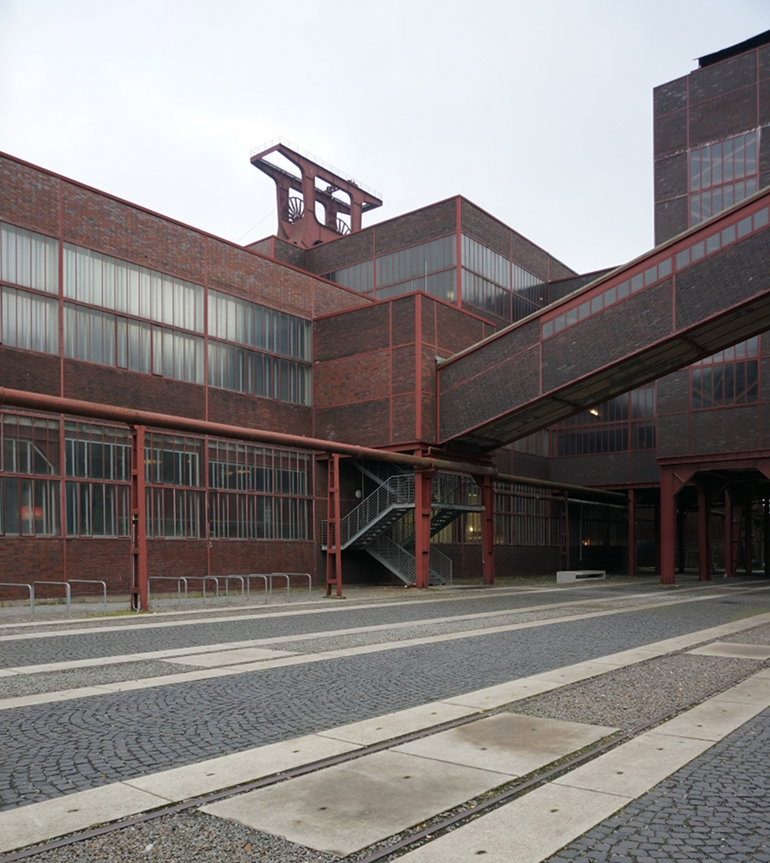
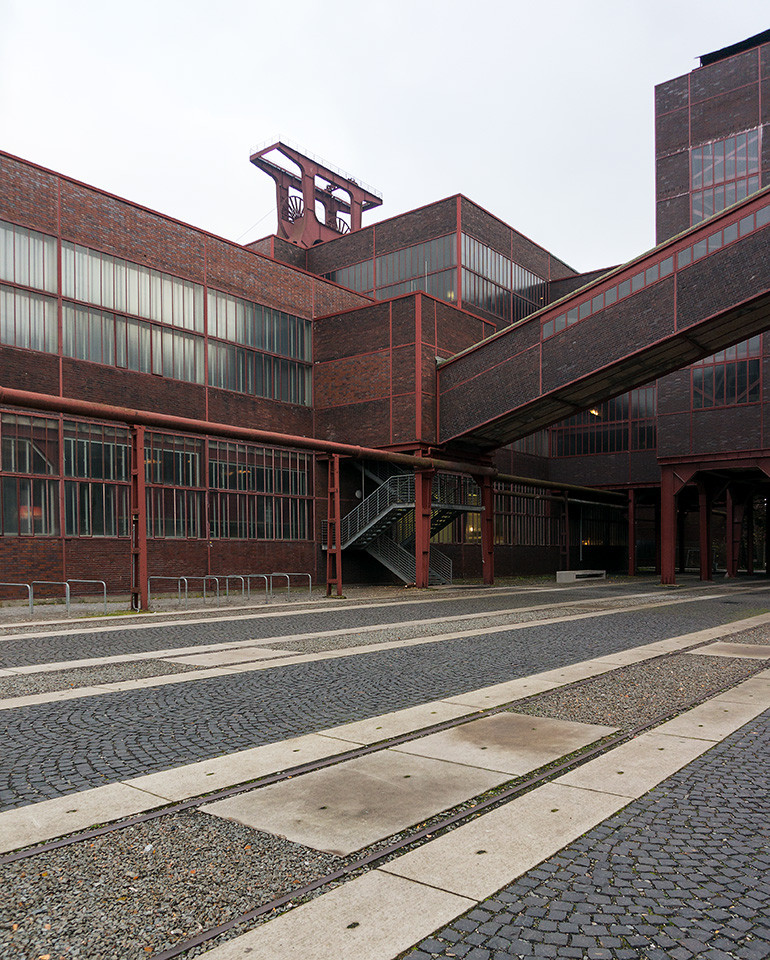
Minor formating changes and img post-processing.

diff --git a/_layouts/default.html b/_layouts/default.html
@@ -1,43 +1,39 @@
 <!DOCTYPE html>
 <html>
-  <head>
-    <title>POTTRAITIERT</title>
-    <!-- Bootstrap -->
-    <link href="/css/bootstrap.css" rel="stylesheet" media="screen">
-	<!-- Pottraitiert -->
-	<link href="/css/pottraitiert.css" rel="stylesheet" media="screen">
-	<link rel="shortcut icon" href="/img/fav_icon.png">
-  </head>
-  <body>
-	<div class="wrap">
-	<div class="container">
-	<div class="row">
-			<div class="span10">
-    			<h1><a href="/index.html" name="top">pottraitiert</a></h1>
+	<head>
+		<title>POTTRAITIERT</title>
+		<!-- Bootstrap -->
+		<link href="/css/bootstrap.css" rel="stylesheet" media="screen">
+		<!-- Pottraitiert -->
+		<link href="/css/pottraitiert.css" rel="stylesheet" media="screen">
+		<link rel="shortcut icon" href="/img/fav_icon.png">
+	</head>
+	<body>
+		<div class="container">
+			<div class="row">
+				<div class="span10">
+					<h1><a href="/index.html" name="top">pottraitiert</a></h1>
+				</div>
 			</div>
-	</div>
-	<div class="row margin-top margin-bottom">
-		{{ content }}
-    </div>
-	</div>
-  </body>
-  	<script src="http://code.jquery.com/jquery-1.8.3.min.js"></script>
+			<div class="row margin-top margin-bottom">
+				{{ content }}
+			</div>
+		</div><!-- container -->
+	</body>
+	<script src="http://code.jquery.com/jquery-1.8.3.min.js"></script>
 	<script>
-	$(document).ready(function () {
-	        $('a[href="' + this.location.pathname + '"]').parent().addClass('active');
-	    });
+		$(document).ready(function () {
+			$('a[href="' + this.location.pathname + '"]').parent().addClass('active');
+		});
 	</script>
 	<script type="text/javascript">
-
-	  var _gaq = _gaq || [];
-	  _gaq.push(['_setAccount', 'UA-38075806-1']);
-	  _gaq.push(['_trackPageview']);
-
-	  (function() {
-	    var ga = document.createElement('script'); ga.type = 'text/javascript'; ga.async = true;
-	    ga.src = ('https:' == document.location.protocol ? 'https://ssl' : 'http://www') + '.google-analytics.com/ga.js';
-	    var s = document.getElementsByTagName('script')[0]; s.parentNode.insertBefore(ga, s);
-	  })();
-
+		var _gaq = _gaq || [];
+		_gaq.push(['_setAccount', 'UA-38075806-1']);
+		_gaq.push(['_trackPageview']);
+		(function() {
+			var ga = document.createElement('script'); ga.type = 'text/javascript'; ga.async = true;
+			ga.src = ('https:' == document.location.protocol ? 'https://ssl' : 'http://www') + '.google-analytics.com/ga.js';
+			var s = document.getElementsByTagName('script')[0]; s.parentNode.insertBefore(ga, s);
+		})();
 	</script>
 </html>

diff --git a/css/pottraitiert.css b/css/pottraitiert.css
@@ -35,10 +35,6 @@ li.active a {
 	background-color:#000;
 }
 
-.with-border { 
-	background: transparent url(../img/background_border.jpg) repeat-y 815px 0px;
-}
-
 .margin-bottom {
 	margin-bottom: 40px;
 }
@@ -49,19 +45,19 @@ textarea, input {
 
 textarea, input[type="text"] {
 	background-position: 0 0;
-	    background-repeat: no-repeat;
-	    border: 1px solid #333333;
-	    font-size: 12px;
-	    line-height: 20px;
-	    padding: 1px;
-	    width: 50%;
+	background-repeat: no-repeat;
+	border: 1px solid #333333;
+	font-size: 12px;
+	line-height: 20px;
+	padding: 1px;
+	width: 50%;
 }
 
 label {
-  display: inline-block;
-  line-height: 1.8;
-  vertical-align: top;
-  width: 250px;
+	display: inline-block;
+	line-height: 1.8;
+	vertical-align: top;
+	width: 250px;
 }
 
 h1 a:hover {
@@ -108,43 +104,4 @@ h2.zero_line_height {
 	
 h2 small {
 	color: #777;
-}
-/* Wrapper for page content to push down footer */
- .wrap {
-	min-height: 100%;
-	height: auto !important;
-	height: 100%;
-	/* Negative indent footer by it's height */
-	margin: 0 auto -60px;
- }
-
-/* Set the fixed height of the footer here */
-.push {
-	height: 40px;
-}
-.footer {
-	height: 60px;
-}
-
-.footer {
-	background-color: #333333;
-}
-
-.footer a {
-  color: #FFF;
-  text-decoration: none;
-}
-.footer a:hover {
-  color: #FFF;
-  text-decoration: underline;
-}
-
-/* Lastly, apply responsive CSS fixes as necessary */
-@media (max-width: 767px) {
-	.footer {
-	margin-left: -20px;
-	margin-right: -20px;
-	padding-left: 20px;
-	padding-right: 20px;
-	}
 }

diff --git a/index.html b/index.html
@@ -2,13 +2,14 @@
 layout: default
 ---
 {% assign first_post = {{site.posts | first}} %}
-	{% if first_post.top_image %}
-		<img src="{{page.top_image}}">
-	{% endif %}
-	<div class="span8">
-		{{ first_post.content }}
-	</div>
-	<div class="span2">
+{% if first_post.top_image %}
+	<img src="{{page.top_image}}">
+{% endif %}
+<div class="span8">
+	{{ first_post.content }}
+</div>
+
+<div class="span2">
 	<div class="left-column-headers" class="zero-margin-top">Artikel</div>
 	<ul>
 	{% for post in site.posts %}
@@ -17,8 +18,8 @@ layout: default
 		{% else %}
 			<li>	
 		{% endif %}
-		<a href="{{ post.url }}">{{ post.title }}</a></li>
+	<a href="{{ post.url }}">{{ post.title }}</a></li>
 	{% endfor %}
 	</ul>
 	{% include informationen.html %}
-	</div>
+</div>

diff --git a/_includes/informationen.html b/_includes/informationen.html
@@ -1,7 +1,7 @@
 <div class="margin-top left-column-headers">Informationen</div>
 <ul>
-<li><a href="/rss.xml">RSS</a></li>
-<li><a href="/kontakt.html#kontakt">Kontakt</a></li>
-<li><a href="/kontakt.html#impressum">Impressum</a></li>
+	<li><a href="/rss.xml">RSS</a></li>
+	<li><a href="/kontakt.html#kontakt">Kontakt</a></li>
+	<li><a href="/kontakt.html#impressum">Impressum</a></li>
+	<li><a href="https://twitter.com/pottraitiert">&#64;pottraitiert</a></li>
 </ul>
-</div>

diff --git a/_layouts/post.html b/_layouts/post.html
@@ -4,10 +4,12 @@ layout: default
 {% if page.top_image %}
 	<img src="{{page.top_image}}">
 {% endif %}
-	<div class="span8">
-		{{ content }}
-	</div>
-	<div class="span2">
+
+<div class="span8">
+	{{ content }}
+</div>
+
+<div class="span2">
 	<div class="left-column-headers" class="zero-margin-top">Artikel</div>
 	<ul>
 	{% for post in site.posts %}
@@ -15,4 +17,4 @@ layout: default
 	{% endfor %}
 	</ul>
 	{% include informationen.html %}
-	</div>
+</div>

diff --git a/pottraitiert.rb b/pottraitiert.rb
@@ -10,11 +10,11 @@ configure do
 end
 
 get '/' do
-    redirect '/index.html'
+  redirect '/index.html'
 end
 
 get '/kontakt.html' do
-    erb :kontakt
+  erb :kontakt
 end
 
 post '/nachricht'do
@@ -27,18 +27,18 @@ post '/nachricht'do
 
  if @errors.empty?
    Pony.mail({:from => params[:nachricht][:email],
-   	:to => 'tkeller.online@googlemail.com',
-   	:subject => "Nachricht von pottraitiert.de",
-   	:body => params[:nachricht][:text],
-   	:port => '587',
-   	:via => :smtp,
-   	:via_options => {
-   	  :address              => 'smtp.sendgrid.net',
-   	  :port                 =>  587,
-   	  :user_name            => ENV['SENDGRID_USERNAME'],
-   	  :password             => ENV['SENDGRID_PASSWORD'],
-   	  :authentication       => :plain,
-   	  :enable_starttls_auto => true
+     :to => 'tkeller.online@googlemail.com',
+     :subject => "Nachricht von pottraitiert.de",
+     :body => params[:nachricht][:text],
+     :port => '587',
+     :via => :smtp,
+     :via_options => {
+       :address              => 'smtp.sendgrid.net',
+       :port                 =>  587,
+       :user_name            => ENV['SENDGRID_USERNAME'],
+       :password             => ENV['SENDGRID_PASSWORD'],
+       :authentication       => :plain,
+       :enable_starttls_auto => true
    	}
    })
    @notice = 'Deine Nachricht wurde verschickt :-).'
@@ -46,7 +46,6 @@ post '/nachricht'do
  else
    @notice = 'Es ist ein Fehler aufgetreten :-(.'
  end
- 
  erb :kontakt
 end
 
